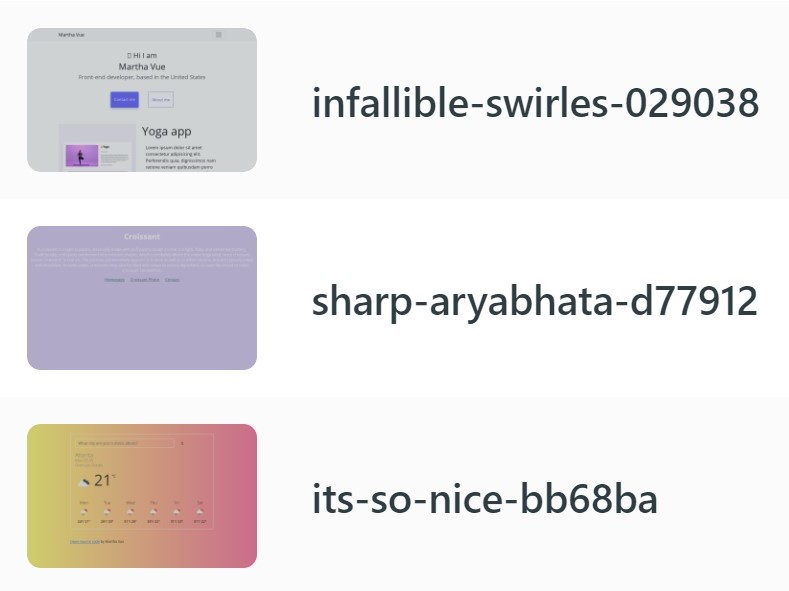
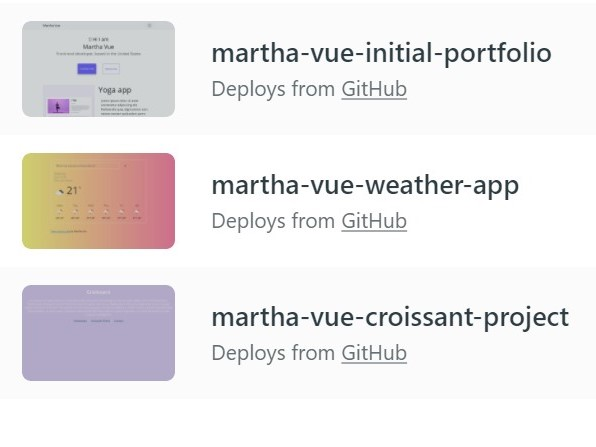
edited links and images

diff --git a/projects.html b/projects.html
@@ -112,7 +112,7 @@
                   like bread to make croissant sandwiches.
                 </p>
                 <a
-                  href="#"
+                  href="https://martha-vue-croissant-project.netlify.app/index.html"
                   class="launch-btn contact-link btn btn-light btn-outline mb-5"
                   title="Croissant App"
                   >Launch Croissant App</a
@@ -165,12 +165,12 @@
                     days.
                   </p>
                   <a
-                    href="https://its-so-nice-bb68ba.netlify.app"
+                    href="https://martha-vue-weather-app.netlify.app/"
                     class="
                       launch-btn
                       contact-link
                       btn btn-light btn-outline
-                      mb-5
+                      mb-2
                     "
                     title="Weather App"
                     >Launch Weather App</a
